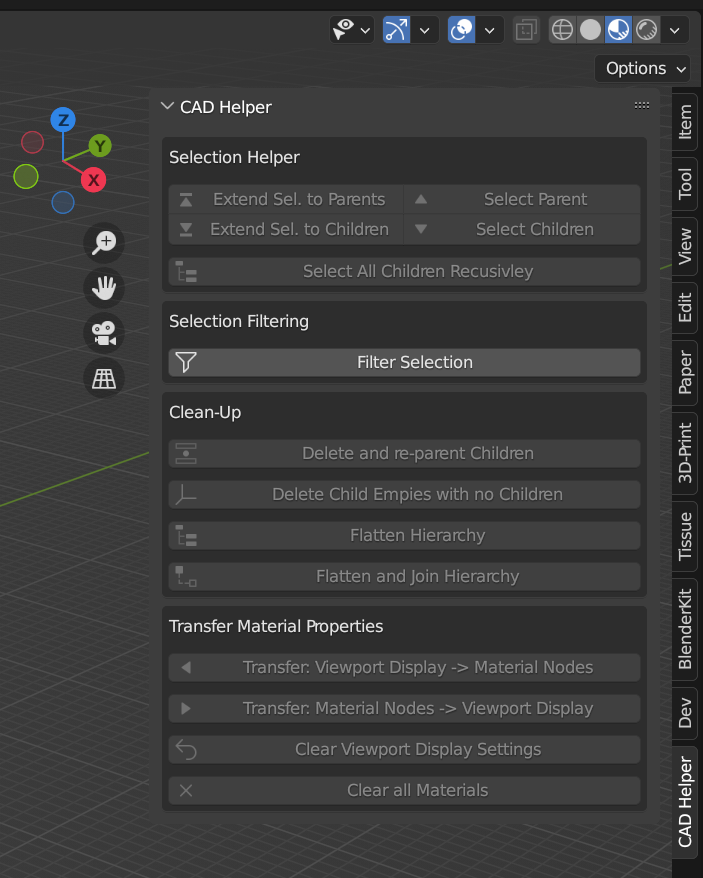
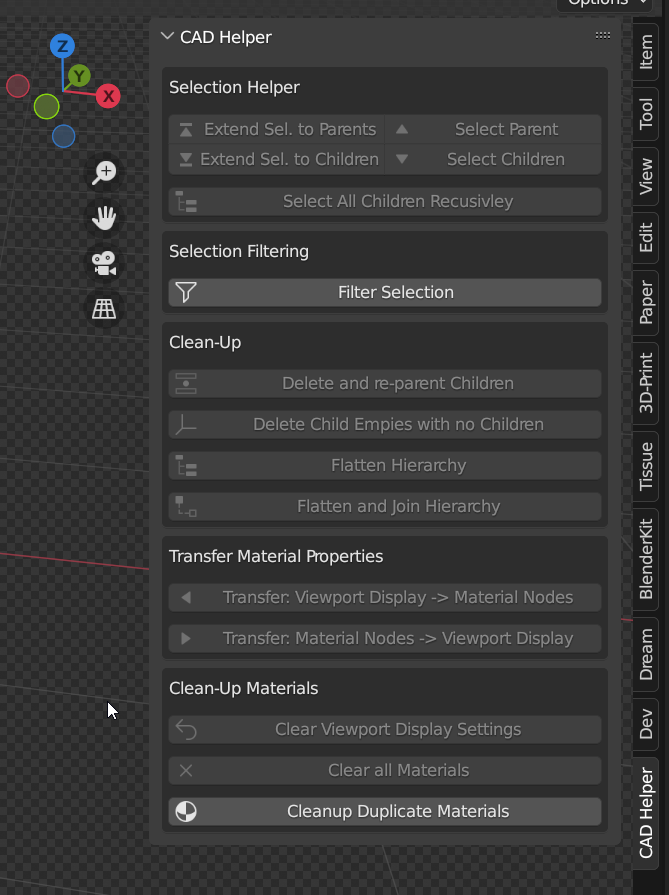
- Added operator to remove duplicated materials. - Solved bug, when removing materials from selected objects, if object is NoneType. - Updated UI - Updated README.md - Updated images/ui-panel.png

diff --git a/materials.py b/materials.py
@@ -92,7 +92,10 @@ class Clear_Materials(bpy.types.Operator):
         sel = bpy.context.selected_objects
 
         for obj in sel:
-            obj.data.materials.clear()
+            try:
+                obj.data.materials.clear()
+            except:
+                continue
 
         return {'FINISHED'}
 
@@ -120,6 +123,70 @@ class Clear_Viewport_Display_Settings(bpy.types.Operator):
         return {'FINISHED'}
 
 
+class CleanupMaterialsOperator(bpy.types.Operator):
+    """Deletes duplicated materials and relinks material slots"""
+    bl_idname = "object.cleanup_duplicate_materials"
+    bl_label = "Cleanup Duplicate Materials"
+    bl_options = {'REGISTER', 'UNDO'}
+
+    def execute(self, context):
+        # Create a dictionary to store unique materials
+        unique_materials = {}
+
+        # Iterate through all the materials in the scene
+        for material in bpy.data.materials:
+            # Get the Principled BSDF node for the material
+            try:
+                principled_node = material.node_tree.nodes.get("Principled BSDF")
+
+                # Create a key for the material by concatenating its RGBA, roughness, and metallic values
+                key = f"{principled_node.inputs['Base Color'].default_value[0]}{principled_node.inputs['Base Color'].default_value[1]}{principled_node.inputs['Base Color'].default_value[2]}{principled_node.inputs['Alpha'].default_value}{principled_node.inputs['Roughness'].default_value}{principled_node.inputs['Metallic'].default_value}"
+
+                # If the material is not in the dictionary, add it
+                if key not in unique_materials:
+                    unique_materials[key] = material
+            except:
+                continue
+
+        # Iterate through all the objects in the scene
+        for obj in bpy.data.objects:
+            # Iterate through all the material slots in the object
+            for i, slot in enumerate(obj.material_slots):
+                # Get the Principled BSDF node for the material in the slot
+                try:
+                    principled_node = slot.material.node_tree.nodes.get("Principled BSDF")
+
+                    this_key = f"{principled_node.inputs['Base Color'].default_value[0]}{principled_node.inputs['Base Color'].default_value[1]}{principled_node.inputs['Base Color'].default_value[2]}{principled_node.inputs['Alpha'].default_value}{principled_node.inputs['Roughness'].default_value}{principled_node.inputs['Metallic'].default_value}"
+
+                    # If the material in the slot is a duplicated material, replace it with the unique material
+                    if this_key in unique_materials and slot.material not in unique_materials.values():
+                        self.report(
+                            {'INFO'},
+                            'Replacing {} with {}'.format(slot.material.name_full, unique_materials[this_key].name_full)
+                            )
+                        obj.active_material_index = i
+                        obj.active_material = unique_materials[this_key]
+                    # if principled_node.inputs['Base Color'].default_value[0] == unique_materials[key].node_tree.nodes['Principled BSDF'].inputs['Base Color'].default_value[0] and principled_node.inputs['Base Color'].default_value[1] == unique_materials[key].node_tree.nodes['Principled BSDF'].inputs['Base Color'].default_value[1] and principled_node.inputs['Base Color'].default_value[2] == unique_materials[key].node_tree.nodes['Principled BSDF'].inputs['Base Color'].default_value[2] and principled_node.inputs['Alpha'].default_value == unique_materials[key].node_tree.nodes['Principled BSDF'].inputs['Alpha'].default_value and principled_node.inputs['Roughness'].default_value == unique_materials and principled_node.inputs['Metallic'].default_value == unique_materials[key].node_tree.nodes['Principled BSDF'].inputs['Metallic'].default_value:
+                    #     obj.active_material_index = i
+                    #     obj.active_material = unique_materials[key]
+                except:
+                    continue
+
+        # Iterate through all the materials in the scene again
+        for material in bpy.data.materials:
+            # Get the Principled BSDF node for the material
+            try:
+                principled_node = material.node_tree.nodes.get("Principled BSDF")
+
+                # If the material is not in the dictionary of unique materials, delete it
+                if material not in unique_materials.values():
+                    bpy.data.materials.remove(material)
+            except:
+                continue
+
+        return {'FINISHED'}
+
+
 ##############################################################################
 # Add-On Handling
 ##############################################################################
@@ -128,6 +195,7 @@ __classes__ = (
     Transfer_Nodes_to_VP,
     Clear_Materials,
     Clear_Viewport_Display_Settings,
+    CleanupMaterialsOperator,
 )
 
 

diff --git a/ui.py b/ui.py
@@ -15,6 +15,8 @@ class CAD_HELPER_PT_Panel(bpy.types.Panel):
     def draw(self, context):
 
         layout = self.layout
+        print(context.region.width)
+        context.region
 
         box = layout.box()
         box.label(text='Selection Helper')
@@ -68,8 +70,12 @@ class CAD_HELPER_PT_Panel(bpy.types.Panel):
         box.label(text='Transfer Material Properties')
         box.operator('object.transfer_vp_to_nodes', icon='TRIA_LEFT')
         box.operator('object.transfer_nodes_to_vp', icon='TRIA_RIGHT')
+
+        box = layout.box()
+        box.label(text='Clean-Up Materials')
         box.operator('object.clear_vp_display', icon='LOOP_BACK')
         box.operator('object.clear_materials', icon='X')
+        box.operator('object.cleanup_duplicate_materials', icon='MATERIAL')
 
 
 ##############################################################################

diff --git a/cleanup.py b/cleanup.py
@@ -139,6 +139,7 @@ class FlattenJoinHierarchy(bpy.types.Operator):
     Flattens hierarchy and join all of the child mesh objects,
     so that all of the children below a selected object(s)
     are on the same level.
+    All modifiers are applied before joining.
     '''
     bl_idname = 'object.flatten_and_join_hierarchy'
     bl_label = 'Flatten and Join Hierarchy'

diff --git a/__init__.py b/__init__.py
@@ -6,7 +6,7 @@ import importlib
 bl_info = {
     "name": "CAD-Helper",
     "author": "A. R. Ammon",
-    "version": (0, 1, 6),
+    "version": (0, 1, 7),
     "blender": (3, 10, 0),
     "description": '''Adds additional object selection and deletion
     functionality for hierarchically structured assemblies.''',

diff --git a/README.md b/README.md
@@ -6,17 +6,26 @@ Blender Addon for imported CAD assemblies.
 ## Functions:
 
 In a hierarchical CAD model (with sub-assemblies and parts), select one or more of the objects. You can then:
-* Recursivley select all of it's child elements
-* Select parent or child objects (with or without extending the selection)
-* Below the selected object(s); all leafes empties (empties without children) are deleted.
-* **Filter selection**
-    * Allows you to filter all the selected parts by bounding box. Lets you specifiy a min and max size in % relative to the selected parts.
-    * Allows you to filter all the selected parts by object type (EMPTY, MESH, CURVE, etc.)
-    * Allows you to filter all the selected parts by their name (simple string match & RegEx)
-* Delete one or multiple objects in the hirarchy. All the children of the selected objects are automatically reconnected to their 'grand-parents' before they are deleted.
-* Delete all (leaf) empties that don't have any (non-empty type) children
-* Transfer material properties between Principled BSDF Node and View Port Display settings
-This is sometimes required as some CAD export color, roughness & alpha to the View Port Display instead of the actual material node (i.e. BIM)
+* **Selection Helper**
+    * Select parent or child objects (with or without extending the selection)
+    * Recursivley select all child elements of the current selection
+* **Selection Filtering**
+    * Allows to filter all the selected parts by bounding box size.Lets you specifiy a min and max size in % relative to the selected parts.
+    * Allows to filter all the selected parts by object type (EMPTY, MESH, CURVE, etc.)
+    * Allows to filter all the selected parts by their name (simple string match & RegEx)
+* **Clean-Up**
+    * Delete one or multiple objects in the hirarchy. All the children of the selected objects are automatically reconnected to their 'grand-parents' before they are deleted.
+    * Below the selected object(s); all leafes empties (empties without children) are deleted.
+    * Flatten the hierarchy below any selected nodes
+    * Flatten the hierarchy below any selected nodes and joins all the mesh objects. All modifiers are applied before joining.
+* **Transfer Material Properties**
+    * Transfer material properties between Principled BSDF Node and View Port Display settings.
+    This is sometimes required as some CAD export color, roughness & alpha to the View Port Display instead of the actual material node (i.e. BIM)
+* **Clean-Up Materials**
+    * Clear viewport colors. Resets all objects to standard gray, when viewd in solid shading
+    * Clear all materials from selected objects
+    * Remove duplicated materials.
+    This compares base color, alpha, roughness and metallic in the BSDF node and replaces all materials with the same values. This operator works on the entire scene, not only selected objects.
 
 
 # Installation:
